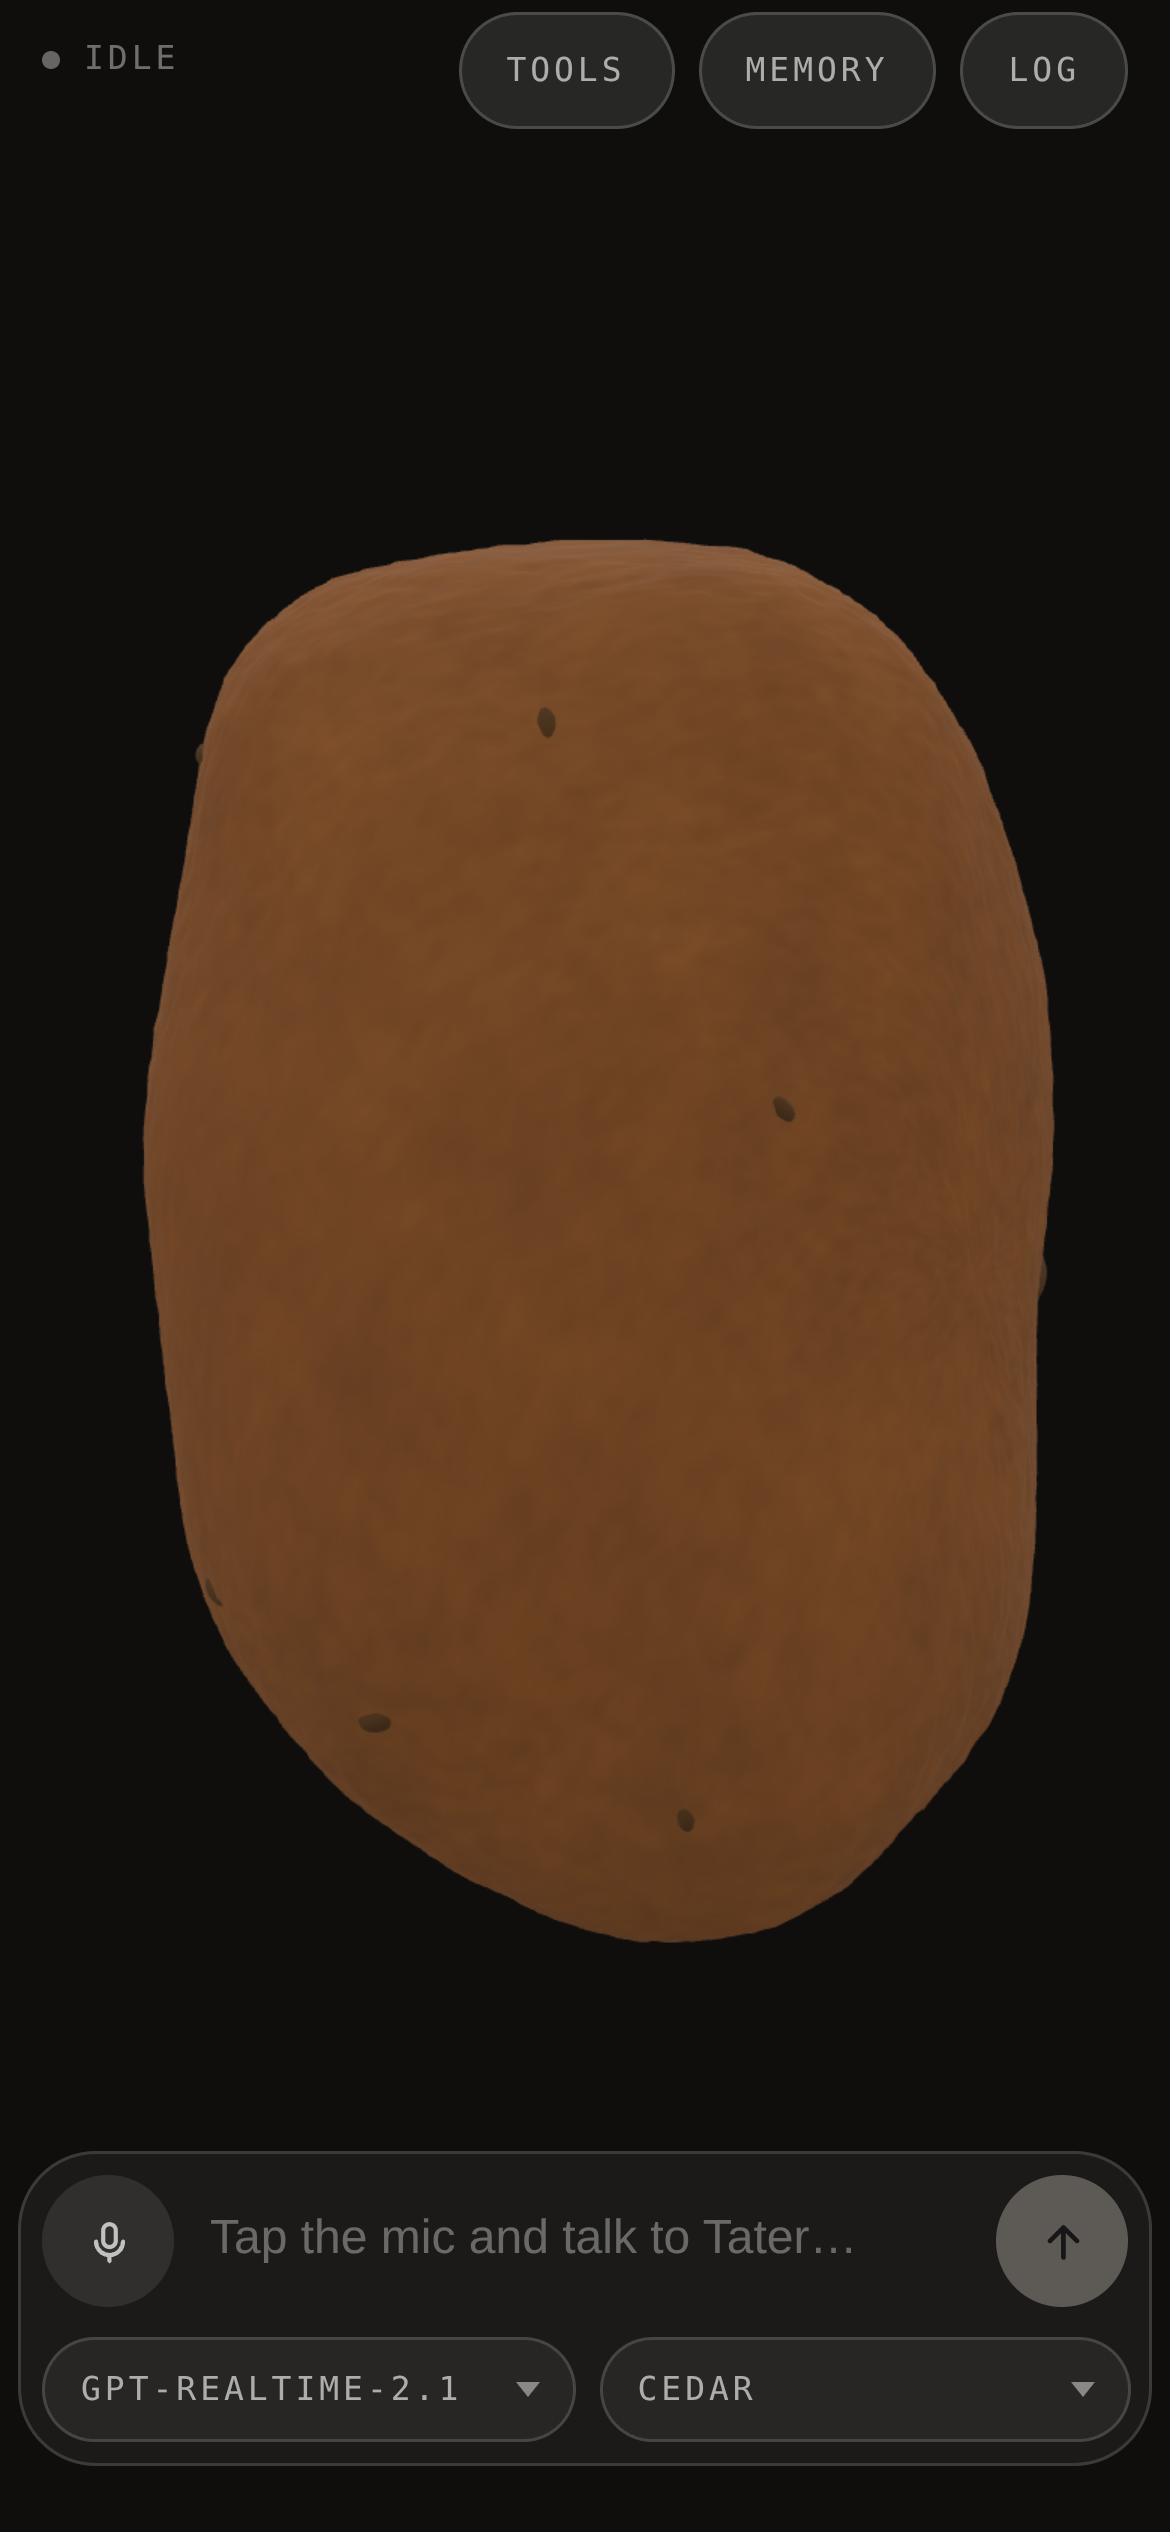
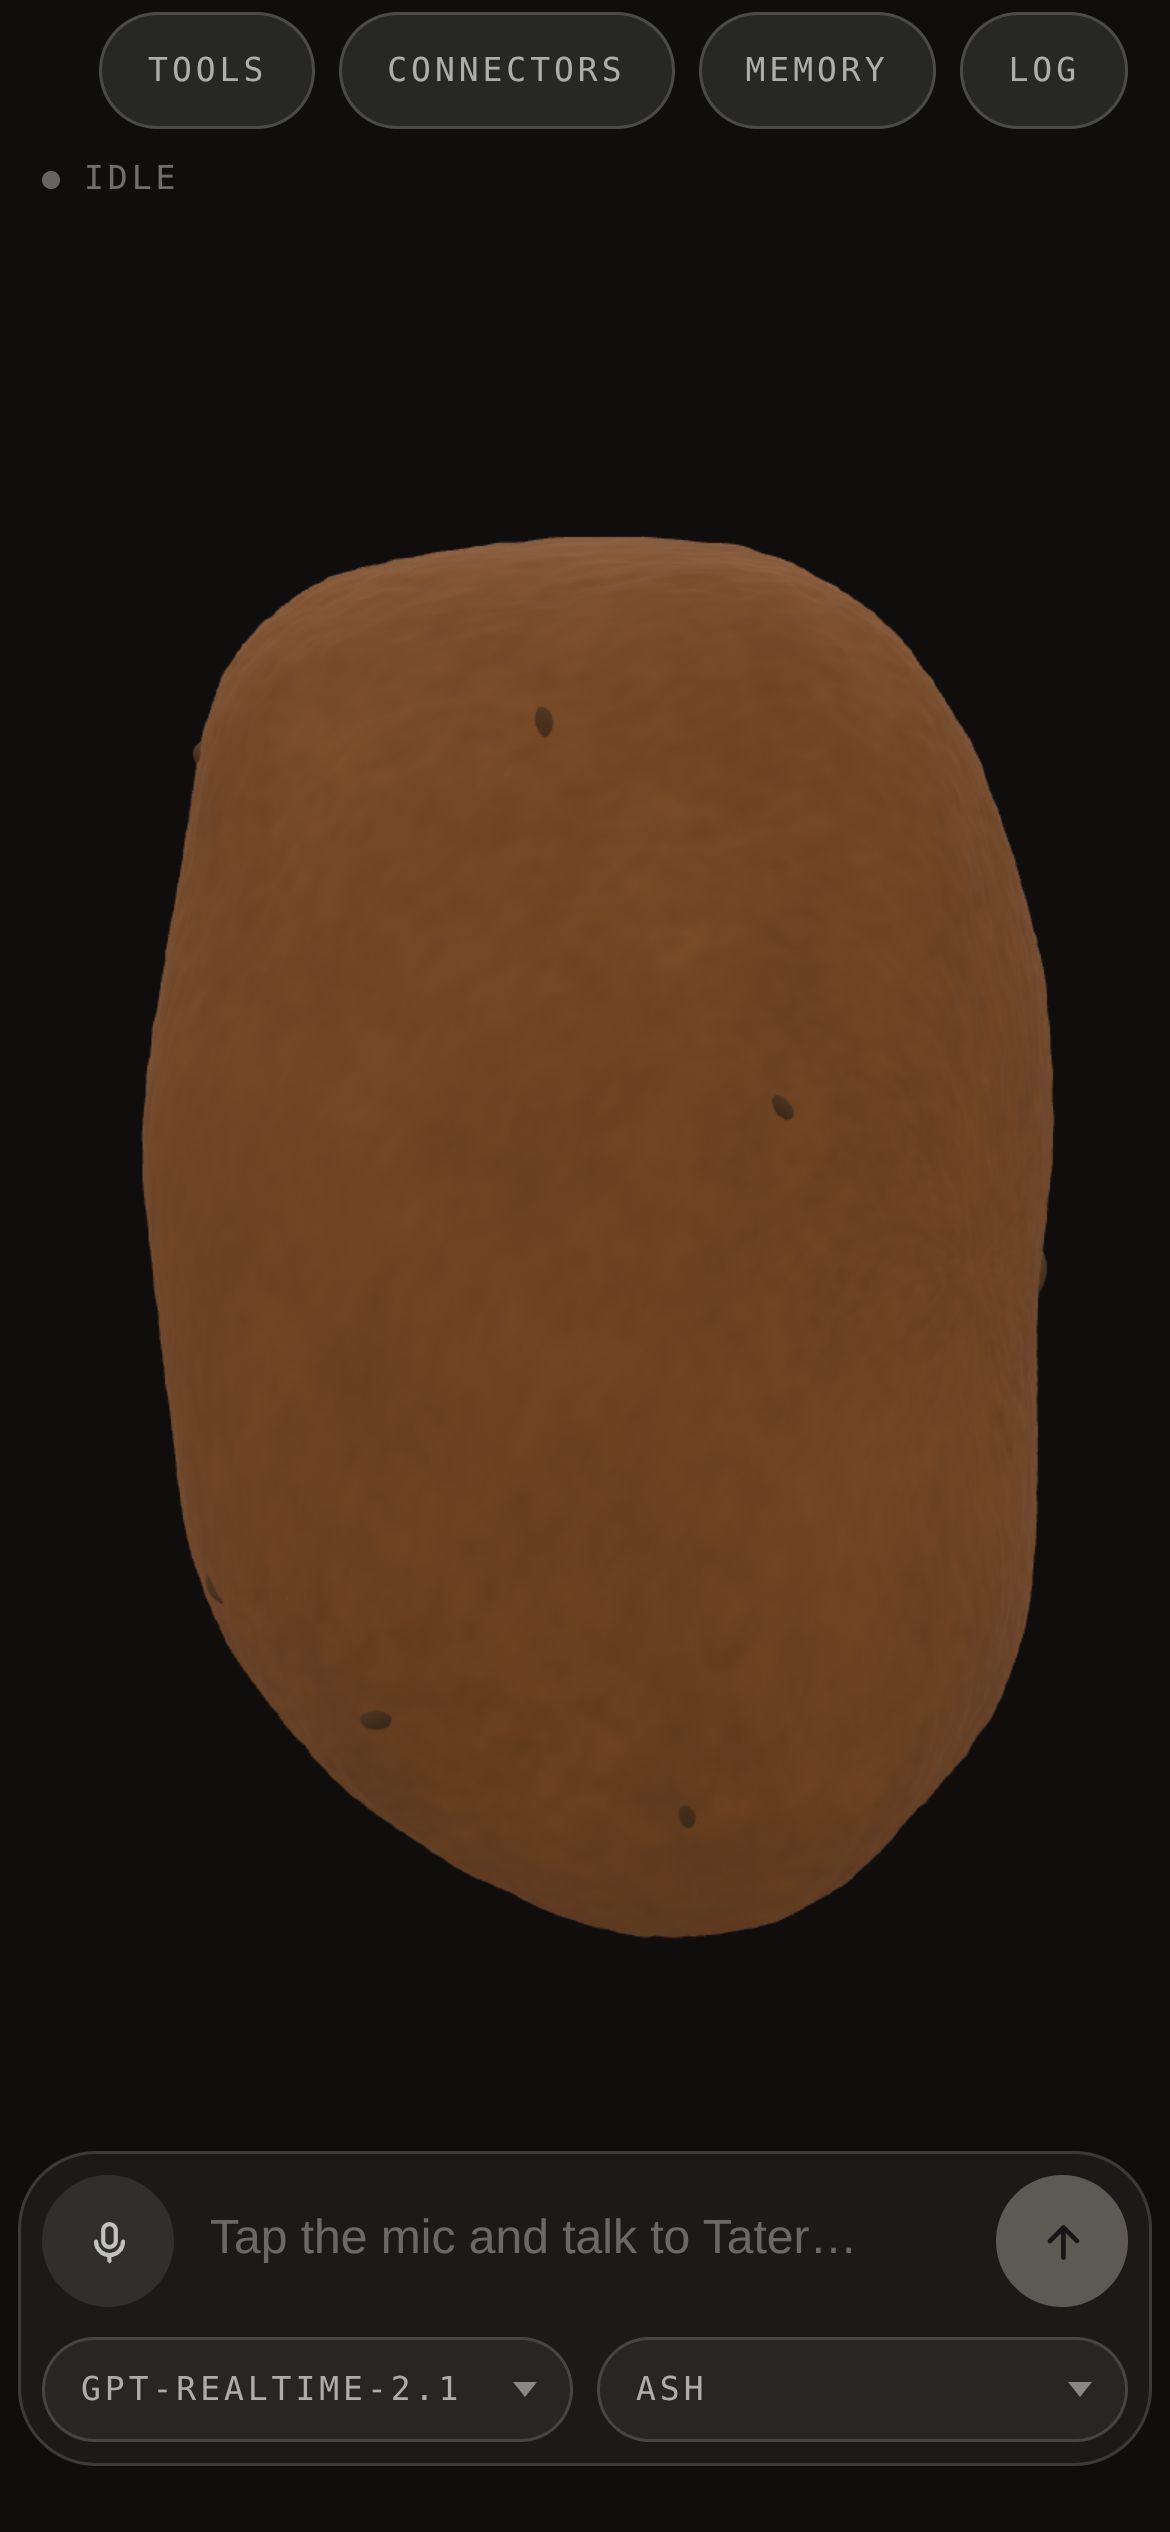
Photograph Tater again, connectors and all
The two shots predate the connectors tab, so the chrome in them is a tab
short and the phone still has the status chip above the buttons rather
than below. Retake both against the current page, and add the connectors
panel itself — the README described it in prose and showed nothing.

Claude-Session: https://claude.ai/code/session_01X1uCPtQotYj4K8829Ap1ud

diff --git a/README.md b/README.md
@@ -4,7 +4,8 @@ A voice agent rendered as a potato. Tater is russet and lumpy, and rude about
 it: he stands on his end and rocks where he is, walks a
 short way out and back while he talks, lies down and spins while he thinks, and
 squashes in time with whoever is making sound — all of it driven by a live
-OpenAI Realtime call. He remembers what you tell him to, between calls.
+OpenAI Realtime call. He remembers what you tell him to, between calls, and
+hands work off to a coding agent.
 
 ![Tater in a desktop browser](docs/screenshots/desktop.png)
 
@@ -41,6 +42,12 @@ Tater reads the task back, dispatches it on a yes, and tells you when it lands.
 The agent runs headless on the machine serving the page and edits real files, so
 nothing is on until you turn it on — see
 [configuration](docs/configuration.md#connectors).
+
+![The connectors panel, with Claude Code and Codex switched on](docs/screenshots/connectors.png)
+
+Which agent is on, where it works, and how much it is allowed to do are all in
+the panel, and take effect without a restart. What each one runs is not:
+choosing the binary this server executes stays in the environment.
 
 The log keeps every conversation. `continue` on one picks it back up: the call is
 dialled again with those turns handed over as context, and what you say from
